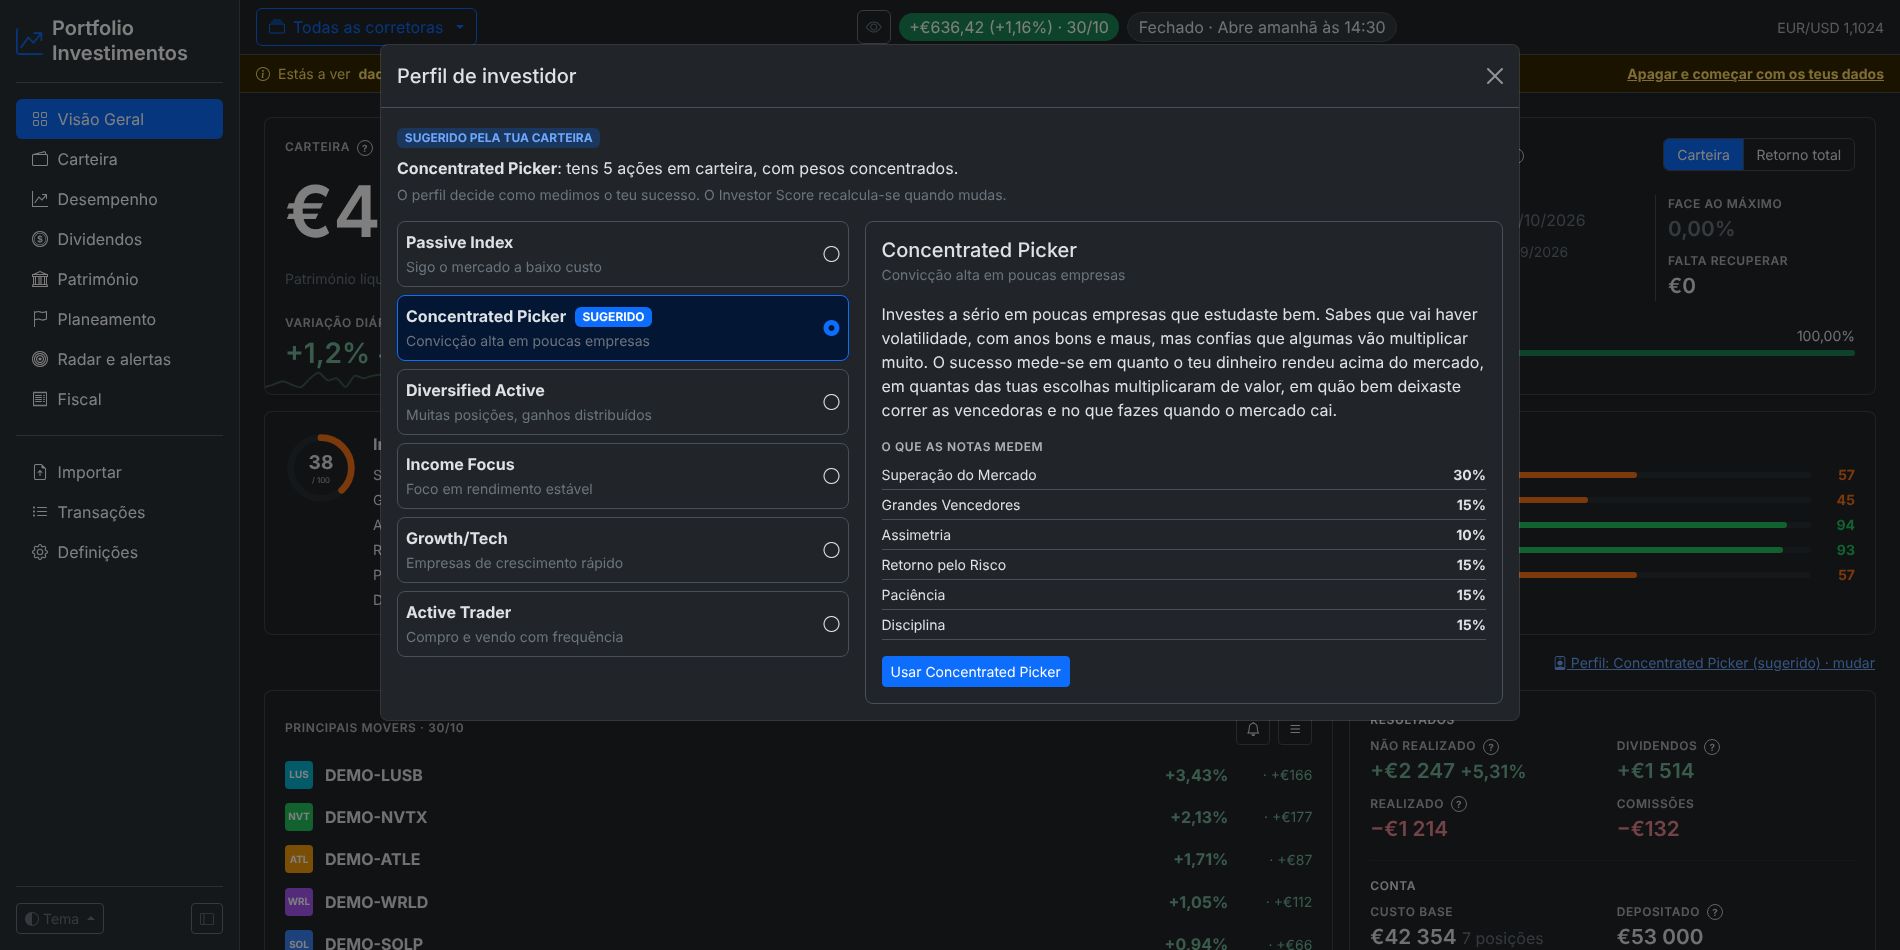
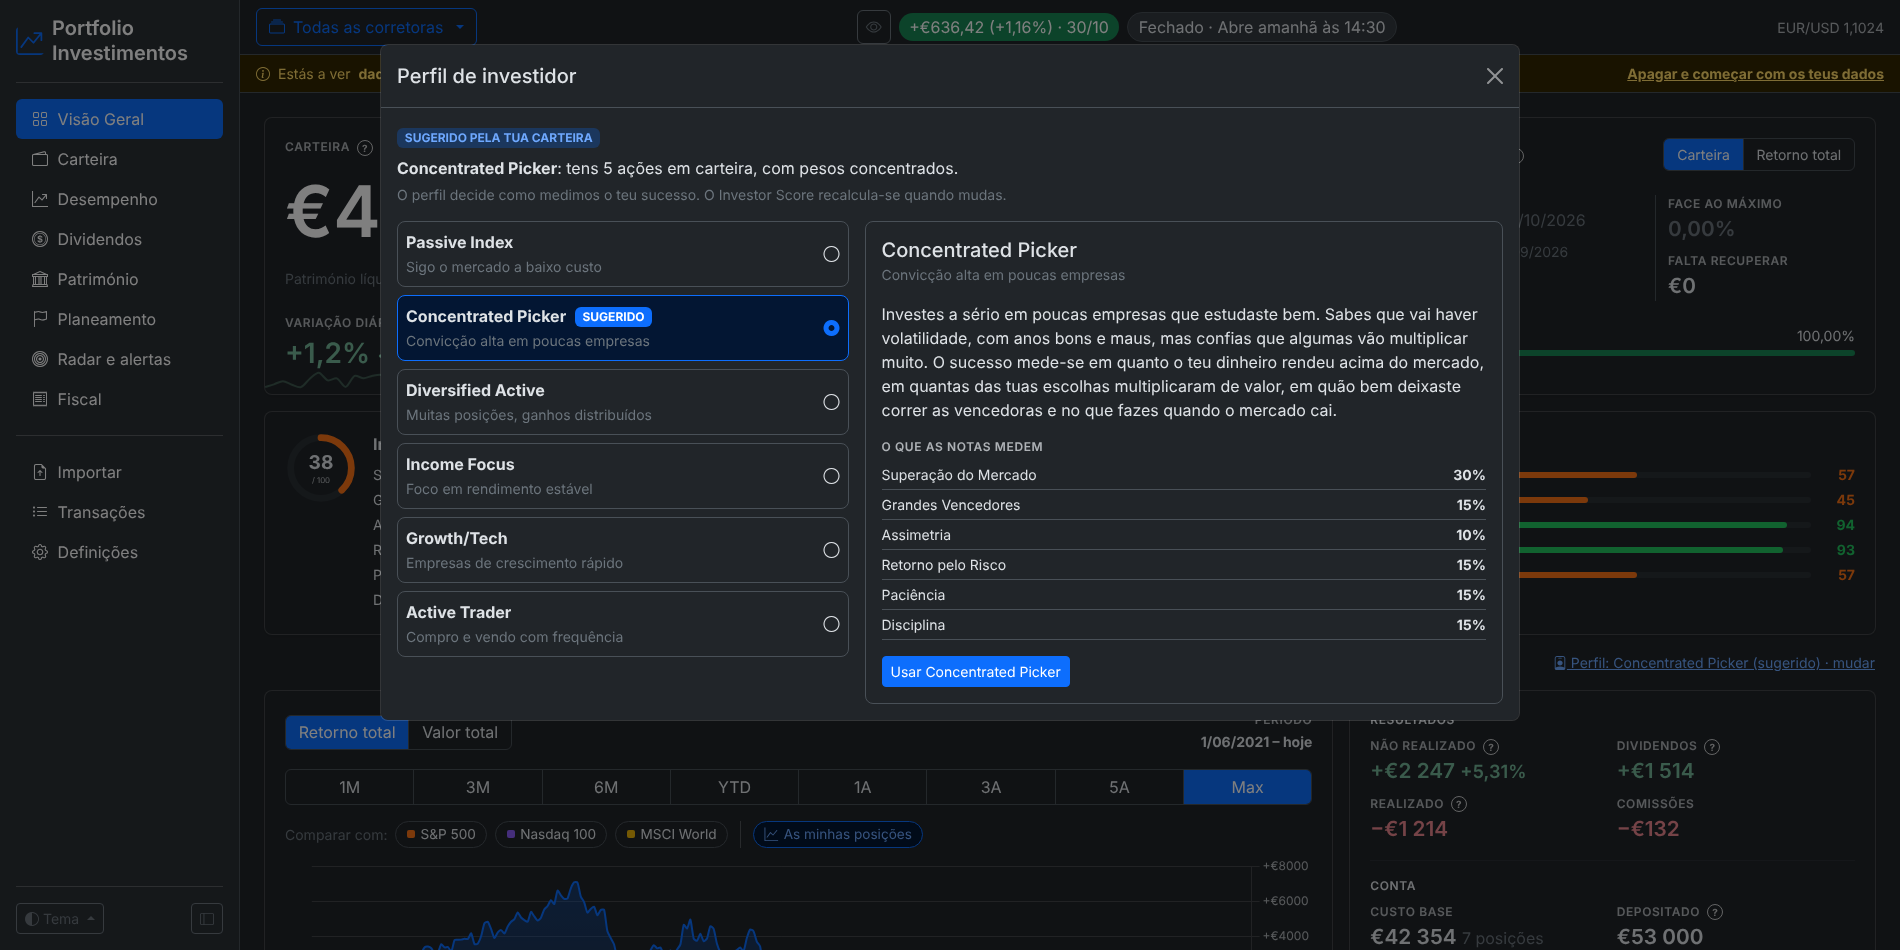
README: revisão das funcionalidades e capturas da Visão Geral
- Capturas 02 (evolução, já com os gráficos do último ano nos principais movers), 03 e 04 (claro e escuro) refeitas: os gráficos novos dos movers aumentaram a altura do cartão e mudaram o resto da página. As outras capturas foram refeitas e ficaram iguais.
- Tabela de funcionalidades pela ordem do menu (Património, Planeamento e Radar e alertas antes de Fiscal).
- Secção «Cotações»: também o histórico de dividendos, os eventos e os dados fundamentais (de onde vêm, uma vez por semana, demonstrações financeiras e cotação principal pelo ISIN, correção manual e --testar-yahoo); corrigida a frase «as cotações, os câmbios diretamente».
- «Próximos passos»: sai a exposição geográfica, que já existe (Alocação → Geografia).
- «Estrutura»: os módulos novos do motor (FIRE, notas, crises, custos, valor de cada ação) e dos serviços (património, cartões da Visão Geral, cópias).
- Histórico de alterações atualizado.

Claude-Session: https://claude.ai/code/session_01AhMv5rzh4esVFWwNf2sje8

diff --git a/README.md b/README.md
@@ -183,10 +183,10 @@ O tema escolhe-se no botão **Tema**, no fundo da barra lateral: Claro, Escuro o
 | **Carteira** | Posições abertas/fechadas, carteira vs mercado no dia, filtros por setor, pesquisa, tabela ordenável (preço, 1D, preço médio, investido, valor, não realizado, dividendos, efeito cambial, comissões, ROI, peso) e alocação por ativo, setor e moeda. «As crises»: quanto cairia a carteira de hoje se 2008, 2011, 2020 ou 2022 se repetissem (beta de cada posição face ao S&P 500) e quanto tempo levava a recuperar. «Os custos»: comissões, custo dos ETF (TER, indicado por ti) e retenções na fonte acima dos 15% da convenção, por ano e daqui a 20 anos. «O valor de cada ação»: por ordem de popularidade, DCF, Número de Graham, fórmula de crescimento de Graham (com o rendimento das obrigações AAA configurável) e modelo de Gordon, e em «Mais métodos» Owner Earnings (Buffett), Earnings Power Value (Greenwald), Bazin e o PEG de Peter Lynch, sempre em intervalo e com a fórmula e os números no «?», comparados com o preço, e o crescimento que o preço de hoje já assume; dados fundamentais do Yahoo (uma vez por semana, na atualização de cotações; se o pedido principal falhar, a partir das demonstrações financeiras, também da cotação principal pelo ISIN, convertidos para a moeda da cotação), que podes corrigir. |
 | **Desempenho** | Retorno total e IRR, TWR e CAGR vs índice, melhor/pior ano e mês, sequência atual; TWR anual e acumulado; drawdown; mapa de retornos mensais; mérito vs mercado (captura em alta/baixa, beta, % de meses acima do mercado); risco (Sharpe, Sortino, Calmar, volatilidade, max drawdown); alfa de Jensen e distribuição mensal ordenada. |
 | **Dividendos** | Recebido líquido/bruto e retenção na fonte, maior pagador, meses com dividendos, rendimento anualizado, crescimento anual. **Projeção** do ano e dos próximos 12 meses com os dividendos recebidos e, para posições recentes, os dividendos por ação do Yahoo, com a origem de cada valor. Dividendos por ano, decomposição do crescimento, **mapa mensal com a linha do próximo ano**, **datas ex-dividendo** (recebido, a receber, sem direito por ter comprado depois, previsto), yield on cost e histórico. |
-| **Fiscal** | Por ano: mais-valias pelo método FIFO resumidas por ativo (as linhas de cada lote abrem a pedido e vão todas no CSV), dividendos com o crédito de imposto estrangeiro limitado a cada dividendo, juros e estimativa de imposto a 28% (Portugal). |
-| **Planeamento** | Independência financeira (FIRE): o número FIRE «para sempre» (regra dos 4%), «para sempre, com a pensão» e «até aos N anos, com a pensão», já depois do IRS dos levantamentos; a parte já feita; a data em três cenários (3%, 5% e 7% reais ao ano), a investir até à data FIRE (ou até uma idade) e a levantar daí em diante; o gráfico da vida inteira com os números FIRE a tracejado e quando cada cenário chega a cada um (tabela e pontos no gráfico); nota quando a pensão cobre as despesas; os outros ativos marcados em Património somam-se à carteira; até quando dura o dinheiro em cada cenário; acompanhamento mês a mês. |
 | **Património** | A carteira das corretoras mais os outros ativos e dívidas que indicas à mão (contas à ordem, depósitos a prazo, certificados, PPR, imóveis, outros, créditos), separados por camadas de liquidez (imediata, curto prazo, ilíquido) e nunca somados num único total: património líquido total e património líquido disponível (só imediata e curto prazo); meses de reserva (liquidez imediata ÷ despesas mensais do Planeamento); imóveis pelo valor líquido de dívida (crédito ligado ao imóvel) com desconto opcional de 5% ou 10% para os custos de venda; casa de habitação própria fora do FIRE; alocação por camada e categoria com e sem a casa própria; evolução mensal por camada; «De onde veio o crescimento», ano a ano (poupança investida, valorização do mercado, outros ativos financeiros, imóveis e amortização da dívida); «Atualizar valores», um formulário mensal com todos os ativos e dívidas, com lembrete (também na Visão Geral) quando um valor passa um mês sem atualizar; aviso nos valores com mais de 90 dias; cada ativo pode somar-se à carteira no Planeamento (FIRE). Na Visão Geral, o património líquido total e o disponível aparecem por baixo do valor da carteira. |
+| **Planeamento** | Independência financeira (FIRE): o número FIRE «para sempre» (regra dos 4%), «para sempre, com a pensão» e «até aos N anos, com a pensão», já depois do IRS dos levantamentos; a parte já feita; a data em três cenários (3%, 5% e 7% reais ao ano), a investir até à data FIRE (ou até uma idade) e a levantar daí em diante; o gráfico da vida inteira com os números FIRE a tracejado e quando cada cenário chega a cada um (tabela e pontos no gráfico); nota quando a pensão cobre as despesas; os outros ativos marcados em Património somam-se à carteira; até quando dura o dinheiro em cada cenário; acompanhamento mês a mês. |
 | **Radar e alertas** | Alertas de preço (acima, abaixo, variação diária) e lista de observação com preço-alvo. |
+| **Fiscal** | Por ano: mais-valias pelo método FIFO resumidas por ativo (as linhas de cada lote abrem a pedido e vão todas no CSV), dividendos com o crédito de imposto estrangeiro limitado a cada dividendo, juros e estimativa de imposto a 28% (Portugal). |
 | **Importar** | Extratos da Trading 212 (CSV), XTB (XLSX), Trade Republic (CSV) e CSV genérico, com deduplicação (podes carregar o mesmo ficheiro várias vezes) e histórico de extratos. Antes de importar fica uma cópia automática da base de dados. |
 | **Transações** | Lista filtrável, inserção manual (com validação da quantidade detida nas vendas) e exportação CSV. |
 | **Definições** | Corretoras; ativos com filtro (posições abertas, sem cotações, todos), pesquisa, último fecho e «Juntar» para o mesmo título com dois tickers; atualização de cotações (todas ou só as posições abertas, com o progresso ativo a ativo); taxa sem risco; disponível offline; cópias de segurança automáticas com «Restaurar»; demonstração e limpeza de dados. |
@@ -195,7 +195,9 @@ Também há um seletor de corretora (todas ou uma conta específica) e um botão
 
 ### Cotações
 
-As cotações, câmbios e eventos vêm do Yahoo Finance através do pacote `yfinance`, instalado pelos scripts de arranque. Onde o `yfinance` não pode ser instalado (ex.: Android), a aplicação vai buscar as cotações, os câmbios diretamente ao Yahoo. Para atualizar, usa **Definições → Atualizar cotações agora**, que precisa de internet. Confirma em **Definições → Ativos** o *símbolo de dados* de cada ativo (código do Yahoo Finance, ex.: `VWCE.DE`, `IWDA.AS`, `AAPL`).
+As cotações, os câmbios, os eventos (resultados e dividendos), o histórico de dividendos por ação e os dados fundamentais das ações vêm do Yahoo Finance através do pacote `yfinance`, instalado pelos scripts de arranque. Onde o `yfinance` não pode ser instalado (ex.: Android), a aplicação vai buscar esses dados diretamente ao Yahoo. Para atualizar, usa **Definições → Atualizar cotações agora** (ou `bash atualizar-cotacoes.sh`), que precisa de internet.
+
+Os dados fundamentais (lucro por ação, valor contabilístico, cash flow livre, crescimento, owner earnings, resultado operacional, dívida e caixa), usados em **Carteira → O valor de cada ação**, são pedidos no máximo uma vez por semana por ação. Vêm do resumo do Yahoo e, para o que faltar, das demonstrações financeiras, também da cotação principal da empresa (pelo ISIN), convertidos para a moeda da cotação. Podes corrigi-los à mão no próprio cartão; `python -m portfolio_investimentos --testar-yahoo` mostra o que cada fonte devolve. Confirma em **Definições → Ativos** o *símbolo de dados* de cada ativo (código do Yahoo Finance, ex.: `VWCE.DE`, `IWDA.AS`, `AAPL`).
 
 O símbolo é escolhido automaticamente pelo ISIN e pelo ticker. Só é aceite um símbolo cotado na moeda do ativo e com preços perto dos das transações. Assim, uma ação americana comprada em euros (ex.: Apple na Xetra, `APC.DE`) não fica com a cotação em dólares, e as cotações de Londres em pence são convertidas para libras.
 
@@ -261,8 +263,10 @@ Tipos aceites: `BUY`, `SELL`, `DIVIDEND`, `DEPOSIT`, `WITHDRAWAL`, `FEE`, `INTER
 
 ```
 portfolio_investimentos/
-├── engine/        # motor de cálculo em Python puro (FIFO, TWR, IRR, risco, dividendos, fiscal)
-├── services/      # ligação à base de dados, importação, mercado (yfinance ou acesso direto ao Yahoo), demonstração
+├── engine/        # motor de cálculo em Python puro: carteira (FIFO, TWR, IRR, risco, dividendos, fiscal), FIRE,
+│                  #   notas do perfil de investidor, crises, custos e valor de cada ação
+├── services/      # base de dados, importação, mercado (yfinance ou acesso direto ao Yahoo), património,
+│                  #   cartões da Visão Geral, cópias de segurança, demonstração
 ├── templates/     # páginas Jinja + Bootstrap 5.3
 ├── static/        # CSS/JS da app e bibliotecas (Bootstrap, Bootstrap Icons, Chart.js), sem CDN
 ├── models.py      # tabelas SQLite (SQLAlchemy)
@@ -285,7 +289,7 @@ python -m portfolio_investimentos
 ## Próximos passos
 
 - Parsers para DEGIRO, IBKR, Revolut e eToro.
-- Análise (sobreposição de ETFs, exposição geográfica); no Planeamento, simulações com os anos reais dos mercados e o efeito de vender ou comprar.
+- Análise da sobreposição de ETFs (as mesmas empresas em vários fundos); no Planeamento, simulações com os anos reais dos mercados e o efeito de vender ou comprar.
 - Executável único (PyInstaller) para quem não quer instalar o Python.
 
 ## Licença

diff --git a/CHANGELOG.md b/CHANGELOG.md
@@ -4,7 +4,9 @@ O que mudou em cada commit, do mais recente para o mais antigo (gerado a partir 
 
 ## 2026-11-01
 
-- **Visão Geral: gráfico dos movers com o último ano**  
+- **README: revisão e capturas da Visão Geral**  
+  Capturas 02, 03 e 04 (claro e escuro) refeitas com os gráficos novos dos principais movers. Tabela de funcionalidades pela ordem do menu; secção «Cotações» com o histórico de dividendos, os eventos e os dados fundamentais (fontes, frequência e correção manual); «Próximos passos» sem a exposição geográfica, que já existe; «Estrutura» com os módulos novos.
+- **Visão Geral: gráfico dos movers com o último ano** `2323566`  
   O gráfico de cada ação dos «Principais movers» passa a mostrar o último ano (eram os últimos 30 dias), e a data no valor ao passar o rato inclui o ano.
 - **Visão Geral: gráfico dos movers face ao preço médio, com o valor ao passar o rato** `e8f089e`  
   O gráfico de cada ação dos «Principais movers» ocupa a largura livre da linha e mostra o preço médio de aquisição a tracejado: a linha e o preenchimento ficam verdes acima dele e vermelhos abaixo. Ao passar o rato aparece a data, o preço e a diferença para o preço médio (com «€ ••••» se os valores estiverem escondidos). No telemóvel, o gráfico passa para uma segunda linha, com a largura toda.
